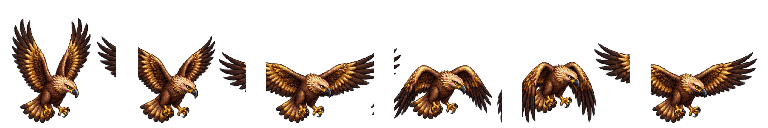
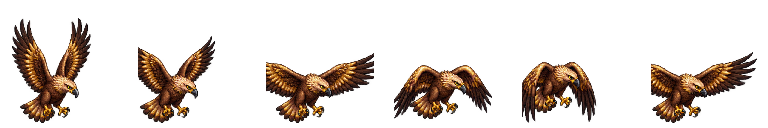
Refine desert storm eagle and scorpion hazards

diff --git a/src/model.js b/src/model.js
@@ -40,7 +40,7 @@ export const GAME_MODES = { RANDOM:'random', RANDOM_SAME:'random-same', RANDOM_F
 export const MAPS = { RIVERSIDE:'riverside', STORM:'storm', MAGMA:'magma', DESERT:'desert', SNOW:'snow' };
 export const MAP_TYPES = Object.values(MAPS);
 export const HAZARD_RULES = { mudSlow:.55, lightningDamage:18, tornadoDamage:10, tornadoPullRadius:118, tornadoPullMin:.62, tornadoPullMax:1.05, rockDamage:16, volcanicFireDps:12, burningRockDps:10, burningRockRadius:40, burningRockDuration:3.5, rockCoolingDuration:.9 };
-export const PHASE6_RULES = { eagleDamage:11, eagleWarning:1.35, eagleRadius:29, quicksandSlow:.52, quicksandPull:.24, scorpionDamage:8, scorpionSlow:1, scorpionWindup:.34, avalancheDamage:14, hailDamage:4, hailFlinch:.22, iceSlip:.38 };
+export const PHASE6_RULES = { eagleDamage:11, eagleWarning:1.35, eagleRadius:29, quicksandSlow:.52, quicksandPull:.24, scorpionDamage:8, scorpionSlow:1, scorpionStagger:.32, scorpionWindup:.34, avalancheDamage:14, hailDamage:4, hailFlinch:.22, iceSlip:.38 };
 export const LIGHTNING_WAVE_DELAY = .55;
 export const HEAL_AMOUNT = 20, PICKUP_LIFETIME = 12;
 const clamp = (n, a, b) => Math.max(a, Math.min(b, n));
@@ -242,8 +242,10 @@ export class Match {
       }else if(kind===1){
         for(const owner of [0,1]){
           const bank=BANK_BOUNDS[owner],p=this.players[owner];
-          const x=clamp(p.x+(this.random()-.5)*40,50,W-50),y=clamp(p.y+(this.random()-.5)*35,bank.minY+42,bank.maxY-42);
-          this.eagles.push({id:this.id++,owner,x,y,age:0,warning:PHASE6_RULES.eagleWarning,life:2.5,hit:false});
+          for(let pass=0;pass<2;pass++){
+            const x=clamp(p.x+(this.random()-.5)*40,50,W-50),y=clamp(p.y+(this.random()-.5)*35,bank.minY+42,bank.maxY-42);
+            this.eagles.push({id:this.id++,owner,x,y,entrySide:this.random()<.5?-1:1,pass,start:pass*2.65,age:0,warning:PHASE6_RULES.eagleWarning,life:2.5,targeted:pass===0,hit:false});
+          }
         }
         this.emit('eagle');
       }else if(kind===2){
@@ -349,14 +351,22 @@ export class Match {
     }
     for(const eagle of this.eagles){
       eagle.age+=dt;
-      if(!eagle.hit&&eagle.age>=eagle.warning){
+      if(eagle.age<eagle.start)continue;
+      if(!eagle.targeted){
+        const bank=BANK_BOUNDS[eagle.owner],p=this.players[eagle.owner];
+        eagle.x=clamp(p.x+(this.random()-.5)*40,50,W-50);
+        eagle.y=clamp(p.y+(this.random()-.5)*35,bank.minY+42,bank.maxY-42);
+        eagle.targeted=true;
+        if(eagle.owner===0)this.emit('eagle');
+      }
+      if(!eagle.hit&&eagle.age-eagle.start>=eagle.warning){
         eagle.hit=true;
         const p=this.players[eagle.owner];
         if(p.hp>0&&distance(p,eagle)<PHASE6_RULES.eagleRadius&&this.damage(p,PHASE6_RULES.eagleDamage)>0)
           this.emit('eagleHit',{x:p.x,player:p.id});
       }
     }
-    this.eagles=this.eagles.filter(eagle=>eagle.age<eagle.life);
+    this.eagles=this.eagles.filter(eagle=>eagle.age<eagle.start+eagle.life);
     for(const patch of this.quicksand){
       patch.age+=dt;
       const p=this.players[patch.owner],d=distance(p,patch);
@@ -368,13 +378,15 @@ export class Match {
       lure.age+=dt;
       const p=this.players[lure.owner];
       if(lure.state==='sun'&&lure.age>=lure.warning)lure.state='lure';
-      if(lure.state==='lure'&&p.hp>0&&distance(p,lure)<27){
+      if(lure.state==='lure'&&p.hp>0&&distance(p,lure)<40){
         lure.state='strike';lure.strikeAge=0;this.emit('scorpionReveal',{x:lure.x});
       }else if(lure.state==='strike'){
         lure.strikeAge+=dt;
         if(lure.strikeAge>=PHASE6_RULES.scorpionWindup){
           if(p.hp>0&&distance(p,lure)<37&&this.damage(p,PHASE6_RULES.scorpionDamage)>0){
-            p.scorpionSlow=PHASE6_RULES.scorpionSlow;this.emit('scorpionBite',{x:p.x,player:p.id});
+            p.scorpionSlow=PHASE6_RULES.scorpionSlow;
+            p.stun=Math.max(p.stun,PHASE6_RULES.scorpionStagger);
+            this.emit('scorpionBite',{x:p.x,player:p.id});
           }
           lure.state='retreat';lure.strikeAge=0;
         }
@@ -744,7 +756,7 @@ export class Match {
       let tx=sandBlind?p.x:enemy.x,ty=bank.minY+(bank.maxY-bank.minY)*(.5+.495*Math.sin(this.time*.6));
       const visibleLures=this.mirages.filter(i=>i.owner===1&&i.state==='lure'&&i.aiInterested);
       const supplies=[...this.pickups.filter(i=>i.owner===1&&i.flight<=0&&i.ttl>0),...visibleLures]
-        .filter(i=>i.type==='syringe'?p.hp<100:!p.slot||i.type===p.slot.type)
+        .filter(i=>visibleLures.includes(i)||(i.type==='syringe'?p.hp<100:!p.slot||i.type===p.slot.type))
         .sort((a,b)=>(distance(a,p)-(a.type==='syringe'&&p.hp<=65?90:0))-(distance(b,p)-(b.type==='syringe'&&p.hp<=65?90:0)));
       if(supplies.length){tx=supplies[0].x;ty=supplies[0].y;}
       for(const b of this.bullets) {
@@ -760,13 +772,13 @@ export class Match {
         tx=p.x+(p.x>=mapThreat.x?145:-145);ty=p.y+(p.y>=mapThreat.y?68:-68);
         if(distance(p,mapThreat)<(mapThreat.dx?60:33)&&mapThreat.age>mapThreat.warning*.7)this.dodge(p,p.x-mapThreat.x,p.y-mapThreat.y);
       }
-      const eagle=this.eagles.find(h=>h.owner===1&&!h.hit&&h.age>h.warning-.65&&distance(p,h)<70);
+      const eagle=this.eagles.find(h=>h.owner===1&&h.targeted&&!h.hit&&h.age-h.start>h.warning-.65&&distance(p,h)<70);
       const avalanche=this.avalanches.find(h=>h.owner===1&&h.age>h.warning-.3&&Math.abs(h.y-p.y)<75&&Math.abs(h.x-p.x)<190);
       const hail=this.hail.find(h=>h.owner===1&&!h.hit&&h.age>=h.start&&distance(p,h)<55);
       const sand=this.quicksand.find(h=>h.owner===1&&distance(p,h)<65);
       const lateral=avalanche;
       if(lateral){ty=p.y+(p.y>=lateral.y?100:-100);if(distance(p,lateral)<54)this.dodge(p,p.x-lateral.x,p.y-lateral.y);}
-      if(eagle){tx=p.x+(p.x>=eagle.x?90:-90);ty=p.y+(p.y>=eagle.y?75:-75);if(eagle.age>eagle.warning-.22&&distance(p,eagle)<41)this.dodge(p,p.x-eagle.x,p.y-eagle.y);}
+      if(eagle){tx=p.x+(p.x>=eagle.x?90:-90);ty=p.y+(p.y>=eagle.y?75:-75);if(eagle.age-eagle.start>eagle.warning-.22&&distance(p,eagle)<41)this.dodge(p,p.x-eagle.x,p.y-eagle.y);}
       if(hail||sand){const threat=hail||sand;tx=p.x+(p.x>=threat.x?95:-95);ty=p.y+(p.y>=threat.y?65:-65);if(hail&&distance(p,hail)<30&&hail.age>hail.warning-.25)this.dodge(p,p.x-hail.x,p.y-hail.y);}
       this.aiTarget={x:clamp(tx,38,W-38),y:clamp(ty,bank.minY,bank.maxY)};
       const crates=this.obstacles.filter(o=>o.owner===1&&o.type!=='barrel'&&!o.destroyed);

diff --git a/tests/phase6.test.js b/tests/phase6.test.js
@@ -18,7 +18,7 @@ test('Desert cycle pairs each hazard and fixed mirages use the match weapon',()=
   const m=new Match(()=>.5,{map:MAPS.DESERT,mode:GAME_MODES.CHOOSE_FIXED,weapon:'nuclear'});
   m.obstacles.forEach(o=>o.destroyed=true);
   m.startEnvironmentEvent();assert.ok(m.sandstorm&&(m.sandstorm.y<0||m.sandstorm.y>940));
-  m.startEnvironmentEvent();assert.deepEqual(m.eagles.map(e=>e.owner),[0,1]);
+  m.startEnvironmentEvent();assert.deepEqual(m.eagles.map(e=>[e.owner,e.pass]),[[0,0],[0,1],[1,0],[1,1]]);
   m.startEnvironmentEvent();assert.deepEqual(m.quicksand.map(e=>e.owner),[0,1]);
   m.startEnvironmentEvent();assert.deepEqual(m.mirages.map(e=>e.owner),[0,1]);
   for(const lure of m.mirages)if(lure.type!=='syringe')assert.equal(lure.type,'nuclear');
@@ -29,17 +29,36 @@ test('quicksand slows but dodge still moves and eagle contact respects invincibi
   m.quicksand=[{id:99,owner:0,x:p.x,y:p.y,age:1.5,open:0,occupied:false,radius:38}];
   const x=p.x;m.move(p,1,0,.1);assert.ok(p.x-x<12);
   assert.equal(m.dodge(p,1,0),true);const next=p.x;m.move(p,1,0,.1);assert.ok(p.x-next>12);
-  m.eagles=[{id:100,owner:0,x:p.x,y:p.y,age:PHASE6_RULES.eagleWarning-.005,warning:PHASE6_RULES.eagleWarning,life:2.5,hit:false}];
+  m.eagles=[{id:100,owner:0,x:p.x,y:p.y,start:0,targeted:true,age:PHASE6_RULES.eagleWarning-.005,warning:PHASE6_RULES.eagleWarning,life:2.5,hit:false}];
   const hp=p.hp;m.updateEnvironment(1/120);assert.equal(p.hp,hp);
 });
 
 test('eagle dives at a locked shadow circle and hits only once',()=>{
   const m=new Match(()=>.5,{map:MAPS.DESERT}),p=m.players[0];m.obstacles.forEach(o=>o.destroyed=true);
-  m.eagles=[{id:100,owner:0,x:p.x,y:p.y,age:PHASE6_RULES.eagleWarning-.01,warning:PHASE6_RULES.eagleWarning,life:2.5,hit:false}];
+  m.eagles=[{id:100,owner:0,x:p.x,y:p.y,start:0,targeted:true,age:PHASE6_RULES.eagleWarning-.01,warning:PHASE6_RULES.eagleWarning,life:2.5,hit:false}];
   m.updateEnvironment(.02);assert.equal(p.hp,100-PHASE6_RULES.eagleDamage);
   m.updateEnvironment(.02);assert.equal(p.hp,100-PHASE6_RULES.eagleDamage);
-  const second={id:101,owner:0,x:p.x+100,y:p.y,age:PHASE6_RULES.eagleWarning-.01,warning:PHASE6_RULES.eagleWarning,life:2.5,hit:false};
+  const second={id:101,owner:0,x:p.x+100,y:p.y,start:0,targeted:true,age:PHASE6_RULES.eagleWarning-.01,warning:PHASE6_RULES.eagleWarning,life:2.5,hit:false};
   m.eagles=[second];m.updateEnvironment(.02);assert.equal(p.hp,100-PHASE6_RULES.eagleDamage);
+});
+
+test('second eagle pass retargets the fighter after the first pass',()=>{
+  const m=new Match(()=>.5,{map:MAPS.DESERT});m.environmentCycle=1;m.startEnvironmentEvent();
+  const second=m.eagles.find(e=>e.owner===0&&e.pass===1),p=m.players[0];
+  assert.equal(second.targeted,false);
+  p.x=300;second.age=second.start-.01;
+  m.updateEnvironment(.02);
+  assert.equal(second.targeted,true);assert.ok(Math.abs(second.x-300)<21);
+});
+
+test('both eagle passes can strike the same fighter after separate warnings',()=>{
+  const m=new Match(()=>.5,{map:MAPS.DESERT});m.environmentCycle=1;m.startEnvironmentEvent();
+  const p=m.players[0],dives=m.eagles.filter(e=>e.owner===0);
+  dives[0].age=dives[0].warning-.01;m.updateEnvironment(.02);
+  assert.equal(p.hp,100-PHASE6_RULES.eagleDamage);
+  dives[1].age=dives[1].start-.01;m.updateEnvironment(.02);
+  dives[1].age=dives[1].start+dives[1].warning-.01;m.updateEnvironment(.02);
+  assert.equal(p.hp,100-2*PHASE6_RULES.eagleDamage);
 });
 
 test('quicksand remains after the fighter leaves and closes without cycling',()=>{
@@ -60,6 +79,24 @@ test('scorpion bite has a windup and can be dodged',()=>{
   m.updateEnvironment(1/120);assert.equal(m.mirages[0].state,'strike');assert.equal(p.hp,100);
   assert.equal(m.dodge(p,1,0),true);
   m.updateEnvironment(PHASE6_RULES.scorpionWindup+.01);assert.equal(p.hp,100);
+});
+
+test('a mirage bites and briefly staggers an armed fighter',()=>{
+  const m=new Match(()=>.5,{map:MAPS.DESERT}),p=m.players[0];p.slot={type:'rifle',ammo:4};
+  m.mirages=[{id:1,owner:0,x:p.x+34,y:p.y,type:'missile',age:2,warning:2,life:12,state:'lure',strikeAge:0}];
+  m.updateEnvironment(1/120);assert.equal(m.mirages[0].state,'strike');assert.equal(p.slot.ammo,4);
+  m.updateEnvironment(PHASE6_RULES.scorpionWindup+.01);
+  assert.equal(p.hp,100-PHASE6_RULES.scorpionDamage);
+  assert.equal(p.stun,PHASE6_RULES.scorpionStagger);
+  assert.equal(m.mirages[0].state,'retreat');
+});
+
+test('the armed computer can still pursue a mirage',()=>{
+  const m=new Match(()=>.5,{map:MAPS.DESERT}),p=m.players[1];m.obstacles.forEach(o=>o.destroyed=true);
+  p.slot={type:'rifle',ammo:4};
+  const lure={id:1,owner:1,x:p.x+40,y:p.y+30,type:'missile',state:'lure',age:3,warning:2,life:12,aiInterested:true};
+  m.mirages=[lure];m.think(1/120);
+  assert.deepEqual(m.aiTarget,{x:lure.x,y:lure.y});
 });
 
 test('Snow starts with two ice patches per bank and pairs avalanche and hail',()=>{

diff --git a/src/main.js b/src/main.js
@@ -435,7 +435,13 @@ function renderPhase6Environment(){
     const storm=game.sandstorm;
     for(let i=0;i<sandstormSprites.length;i++){
       const cloud=sandstormSprites[i];cloud.visible=!!storm;
-      if(storm){cloud.texture=phase6Frames.sandstorm[sheetLoop(storm.age+i*.28,8,6)];cloud.position.set(W*(i+.5)/3,storm.y+(i%2?28:-18));cloud.width=W*.53;cloud.height=210;cloud.alpha=.64+Math.sin(storm.age*5+i)*.08;}
+      if(storm){
+        const lane=i%3,back=i<3;
+        cloud.texture=phase6Frames.sandstorm[sheetLoop(storm.age+i*.23,8,6)];
+        cloud.position.set(W*(lane+.5)/3+(back?18:-9),storm.y+(lane%2?26:-18)+(back?26:0));
+        cloud.width=W*(back?.58:.53);cloud.height=back?228:210;
+        cloud.alpha=(back?.49:.72)+Math.sin(storm.age*5+i)*.06;
+      }
     }
     if(storm)for(let i=0;i<9;i++){
       const drift=Math.sin(storm.age*2.1+i*1.7)*13;
@@ -450,7 +456,8 @@ function renderPhase6Environment(){
       if(fraction>.01)sprite(`sand-transition-${patch.id}`,phase6Frames.quicksand,hazardLayer,patch.x,patch.y,width,height,frames[step+1],fraction);
     }
     for(const eagle of game.eagles){
-      const approach=Math.min(1,eagle.age/eagle.warning),depart=Math.max(0,(eagle.age-eagle.warning)/(eagle.life-eagle.warning));
+      if(eagle.age<eagle.start)continue;
+      const age=eagle.age-eagle.start,approach=Math.min(1,age/eagle.warning),depart=Math.max(0,(age-eagle.warning)/(eagle.life-eagle.warning));
       const radius=61-32*approach,shadowFade=1-depart;
       for(let ring=0;ring<4;ring++)environmentGround.ellipse(eagle.x,eagle.y,radius*(1-ring*.15),radius*(1-ring*.15)*.68)
         .fill({color:0x17130b,alpha:(.09+approach*.06)*shadowFade});
@@ -459,9 +466,11 @@ function renderPhase6Environment(){
         const angle=n*1.25+eagle.id;
         circle(environmentGround,eagle.x+Math.cos(angle)*radius*.86,eagle.y+Math.sin(angle)*radius*.57,1.5,0xe6b96d,(approach-.7)*1.6);
       }
-      const flightX=eagle.x-28*(1-approach)+Math.sin(approach*Math.PI)*21+depart*58;
+      const flightProgress=1-Math.pow(1-approach,1.5),fromX=eagle.entrySide<0?-40:W+40;
+      const flightX=fromX+(eagle.x-fromX)*flightProgress+Math.sin(approach*Math.PI)*16-eagle.entrySide*depart*68;
       const flightY=eagle.y-24-135*(1-approach)-depart*115;
-      const bird=sprite(`eagle-${eagle.id}`,phase6Frames.eagle,lightningLayer,flightX,flightY,(36+52*approach)*(1-depart*.45),(34+51*approach)*(1-depart*.45),sheetLoop(eagle.age,12,6),Math.min(1,.48+approach*.52)*(1-depart*.75));
+      const bird=sprite(`eagle-${eagle.id}`,phase6Frames.eagle,lightningLayer,flightX,flightY,(44+46*approach)*(1-depart*.45),(40+45*approach)*(1-depart*.45),sheetLoop(age,12,6),Math.min(1,.55+approach*.45)*(1-depart*.75));
+      bird.scale.x=Math.abs(bird.scale.x)*(eagle.entrySide<0?1:-1);
       bird.rotation=Math.sin(approach*Math.PI)*.12+depart*.3;
     }
     for(const lure of game.mirages){
@@ -1148,7 +1157,7 @@ async function boot(){
     const puff=new Sprite(ashCloudTexture);puff.anchor.set(.5);puff.visible=false;ashVentPuffs.push(puff);ashCloudLayer.addChildAt(puff,0);
   }
   draw=new Graphics();joystickDraw=new Graphics();phase6WeatherLayer=new Container();phase6WeatherDraw=new Graphics();phase6WeatherLayer.addChild(phase6WeatherDraw);
-  for(let i=0;i<3;i++){const cloud=new Sprite(phase6Frames.sandstorm[0]);cloud.anchor.set(.5);cloud.visible=false;sandstormSprites.push(cloud);phase6WeatherLayer.addChild(cloud);}
+  for(let i=0;i<6;i++){const cloud=new Sprite(phase6Frames.sandstorm[0]);cloud.anchor.set(.5);cloud.visible=false;sandstormSprites.push(cloud);phase6WeatherLayer.addChild(cloud);}
   app.stage.addChild(draw,ashCloudLayer,phase6WeatherLayer,joystickDraw);
   buildWeaponChoices();
   $('start').disabled=false;$('start').textContent='PLAY AGAIN';$('menu-play').disabled=false;$('menu-play').textContent='VS COMPUTER';

diff --git a/scripts/prepare-phase6-art.py b/scripts/prepare-phase6-art.py
@@ -1,10 +1,11 @@
 """Prepare the original Phase 6 pixel art as compact, aligned runtime sheets."""
 
 from pathlib import Path
+from collections import deque
 from math import sin, pi
 
 import numpy as np
-from PIL import Image, ImageDraw
+from PIL import Image, ImageDraw, ImageFilter
 
 
 ROOT = Path(__file__).resolve().parents[1]
@@ -65,6 +66,43 @@ def sandstorm_sheet() -> None:
     sheet.save(OUTPUT / "sandstorm-frames.png", optimize=True)
 
 
+def clean_eagle_frames() -> None:
+    """Keep the central bird in each generated cell, dropping adjacent-frame feathers."""
+    path = OUTPUT / "eagle-frames.png"
+    sheet = Image.open(path).convert("RGBA")
+    cleaned = Image.new("RGBA", sheet.size, (0, 0, 0, 0))
+    for index in range(6):
+        frame = sheet.crop((index * 128, 0, (index + 1) * 128, 128))
+        alpha = np.asarray(frame.getchannel("A")) > 26
+        seen = np.zeros(alpha.shape, dtype=bool)
+        largest: list[tuple[int, int]] = []
+        for y in range(128):
+            for x in range(128):
+                if not alpha[y, x] or seen[y, x]:
+                    continue
+                queue = deque([(x, y)])
+                seen[y, x] = True
+                component: list[tuple[int, int]] = []
+                while queue:
+                    cx, cy = queue.popleft()
+                    component.append((cx, cy))
+                    for nx, ny in ((cx - 1, cy), (cx + 1, cy), (cx, cy - 1), (cx, cy + 1),
+                                   (cx - 1, cy - 1), (cx + 1, cy - 1), (cx - 1, cy + 1), (cx + 1, cy + 1)):
+                        if 0 <= nx < 128 and 0 <= ny < 128 and alpha[ny, nx] and not seen[ny, nx]:
+                            seen[ny, nx] = True
+                            queue.append((nx, ny))
+                if len(component) > len(largest):
+                    largest = component
+        keep = np.zeros((128, 128), dtype=np.uint8)
+        for x, y in largest:
+            keep[y, x] = 255
+        keep = np.asarray(Image.fromarray(keep).filter(ImageFilter.MaxFilter(5))) > 0
+        pixels = np.array(frame)
+        pixels[~keep] = 0
+        cleaned.alpha_composite(Image.fromarray(pixels, "RGBA"), (index * 128, 0))
+    cleaned.save(path, optimize=True)
+
+
 def small_effect_sheets() -> None:
     mirage = Image.new("RGBA", (64 * 4, 64), (0, 0, 0, 0))
     hail = Image.new("RGBA", (48 * 4, 48), (0, 0, 0, 0))
@@ -101,6 +139,7 @@ def main() -> None:
         image.save(OUTPUT / f"arena-{name}.webp", "WEBP", quality=90, method=6)
     for item in SHEETS:
         normalize_strip(*item)
+    clean_eagle_frames()
     sandstorm_sheet()
     small_effect_sheets()
 

diff --git a/docs/PHASE_6_PRD.md b/docs/PHASE_6_PRD.md
@@ -53,7 +53,7 @@ Warm yellow sand covers both level banks. Dry stone and mountain faces close the
 
 ### Eagle swoop
 
-- Each bank receives a dive from above. A broad circular shadow marks the locked landing point and shrinks as the eagle approaches; the eagle strikes the final shadow circle, then climbs away.
+- Each bank receives two dives in quick succession. The eagle enters visibly from the left or right at height, descends toward a broad circular shadow that shrinks around the locked landing point, strikes the final circle, then climbs away. The second pass locks onto the fighter's new position.
 - The eagle is **non-shootable** and does not block shots. A fighter can move outside the shrinking shadow or dodge through the attack with existing invincibility frames. One dive can hit a fighter at most once.
 - Schedule equivalent dives on both banks. Target positions may vary independently but use the same warning, speed, hit radius, and damage. The computer reacts to the visible shrinking shadow.
 - **Initial tuning proposal:** roughly 1 second of shadow warning and 10–12 HP on a direct hit, with no lasting stun. Tune for phone reaction time.
@@ -70,7 +70,7 @@ Warm yellow sand covers both level banks. Dry stone and mountain faces close the
 - A global sun pulse begins about **2 seconds** before fake items appear: the sand brightens to a warmer gold and local heat shimmer grows. It signals the event without flashing white or hiding real pickups.
 - One mirage item appears at a valid, reachable position on each bank. It resembles either a weapon pickup or a healing syringe, with slight heat wavering as a close-range clue. The two banks receive the same event timing; item type and position may vary independently. A fake item has no ownership transfer, ammo, or healing effect.
 - In Random Fixed Weapon and Choose Fixed Weapon, a fake weapon displays that match's fixed type. In Random Same Weapon, it must use an eligible type without implying that the Tower has made a new paired launch. Fake items do not alter Tower drops or crate loot odds.
-- On close approach, the image breaks, a scorpion rises from the sand, and its tail visibly winds up before one bite attempt. The scorpion is **non-shootable** and does not block shots. Moving away or dodging during the windup prevents the bite; a successful hit deals **8 HP** and a short movement slow. It then burrows away. Untouched mirages fade after a limited time.
+- On close approach, even while carrying a different weapon, the image breaks, a scorpion rises from the sand, and its tail visibly winds up before one bite attempt. The scorpion is **non-shootable** and does not block shots. Moving away or dodging during the windup prevents the bite; a successful hit deals **8 HP**, a brief stagger, and a short movement slow. It then burrows away. Untouched mirages fade after a limited time.
 - The computer may be lured by a mirage and uses the same proximity trigger, bite damage, slow, and dodge opportunity. It must not identify fake items from hidden state before the visual clue appears.
 - **Initial tuning proposal:** about 0.3 seconds between emergence and bite, around 1 second of slow, and 8–10 seconds before an untouched lure fades. Validate that the tell is readable but the trap remains tempting.
 
